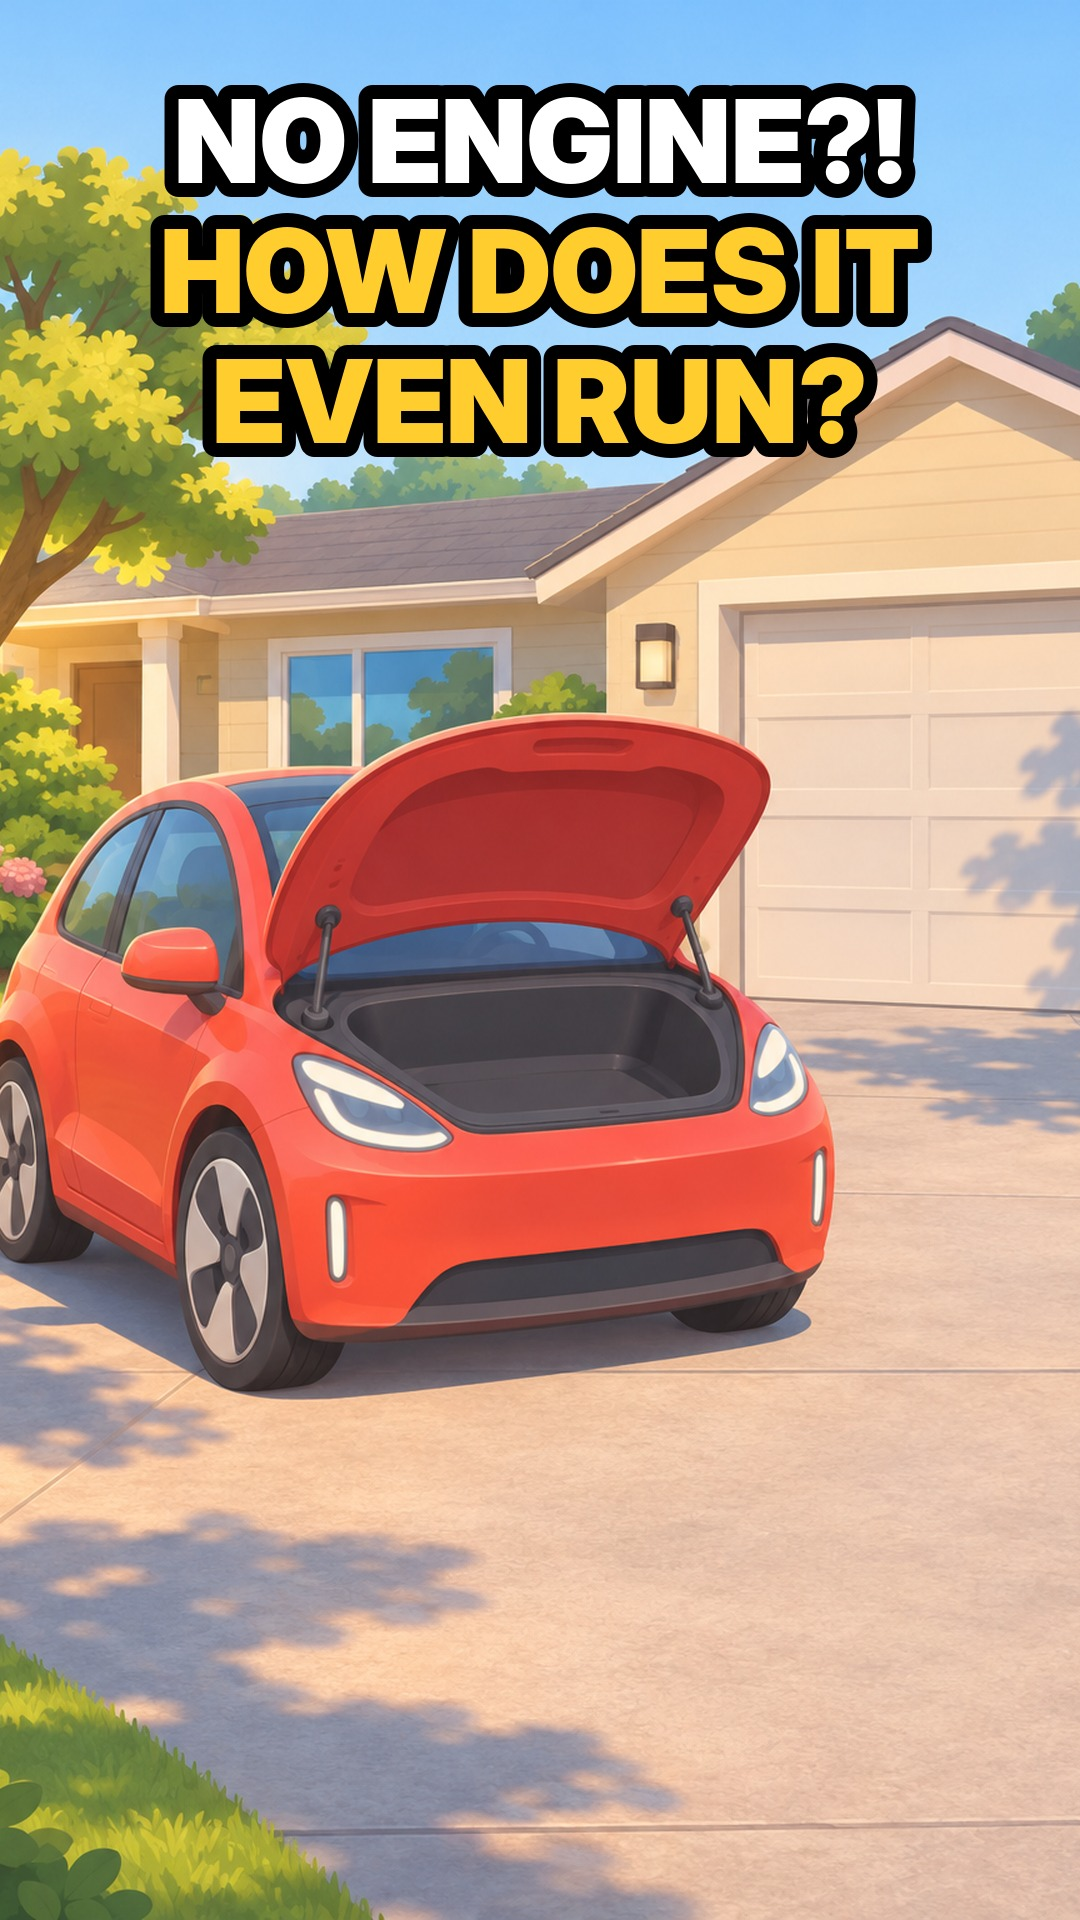
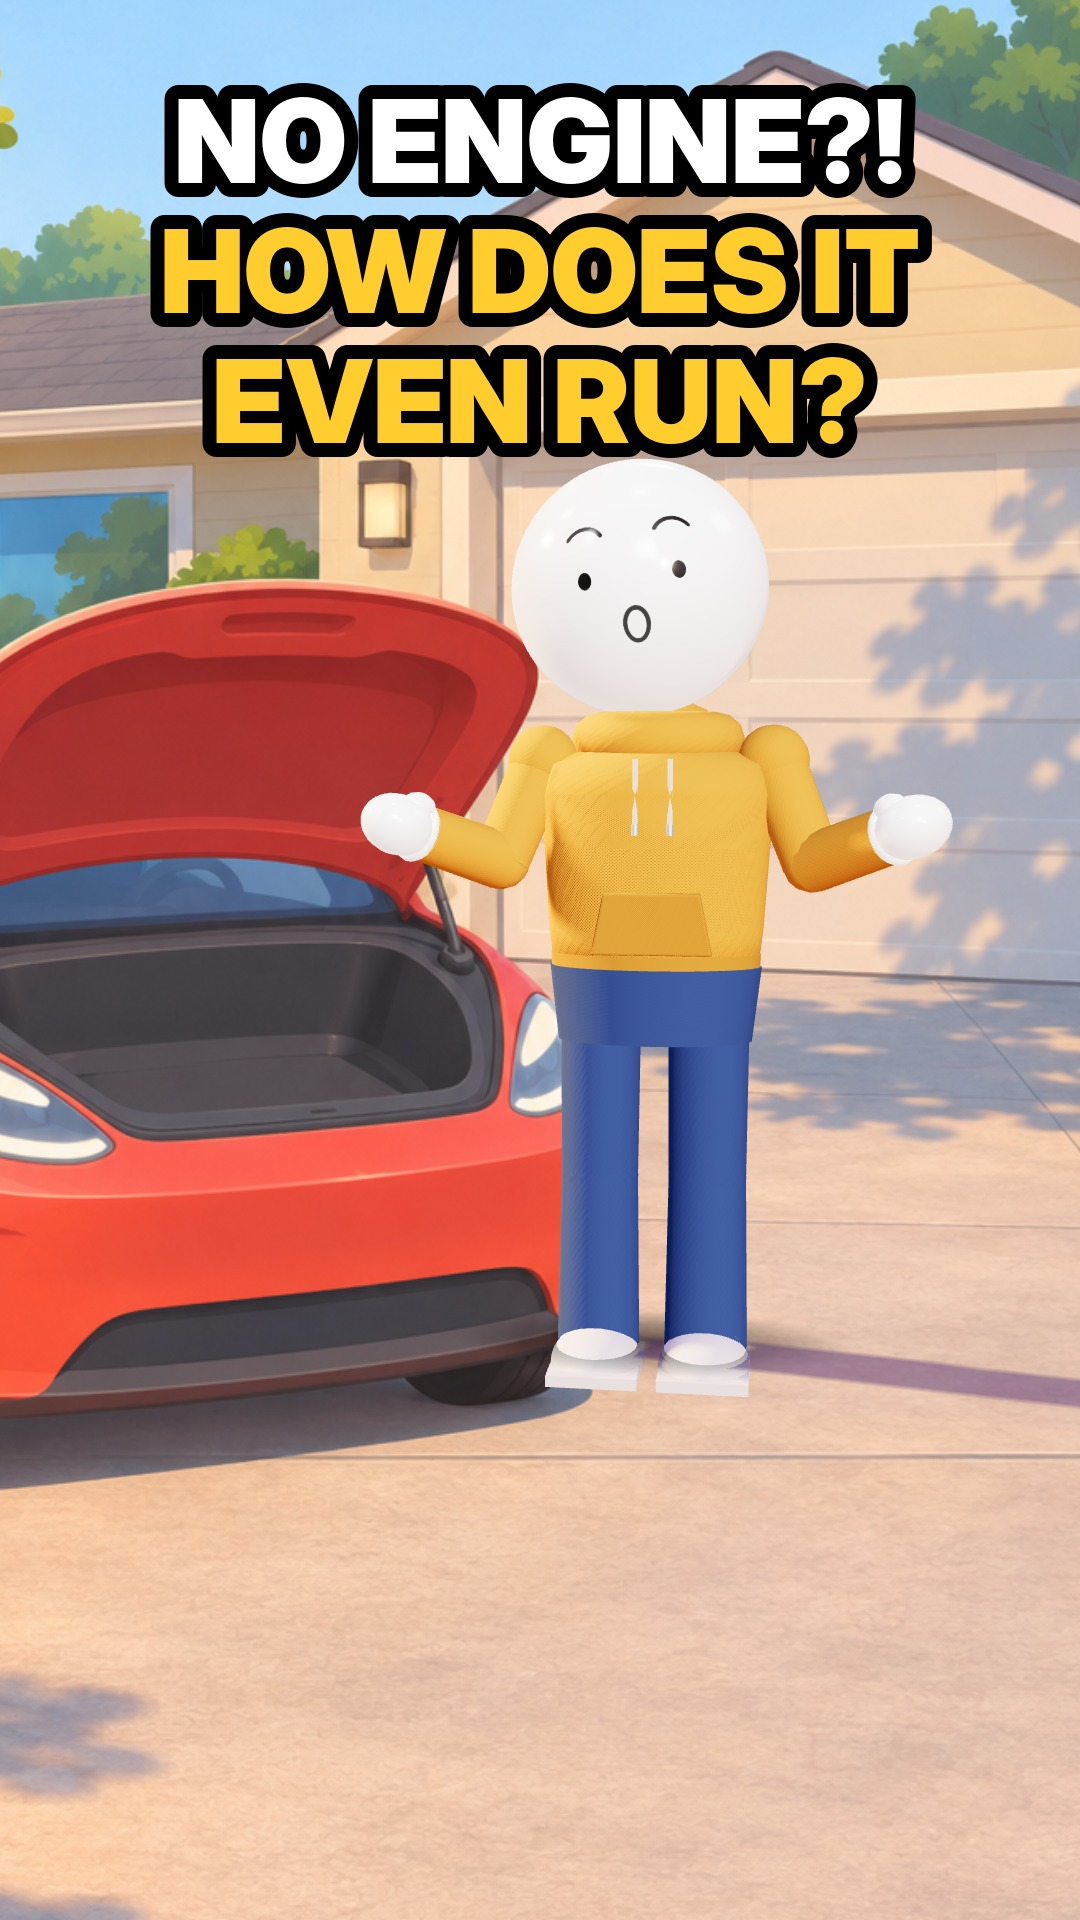
Covers always show the character: tools/cover.js + bible step 9
Claude-Session: https://claude.ai/code/session_01HD3jrJa4YnJamw2BSWNnj9

diff --git a/tools/cover.js b/tools/cover.js
@@ -1,0 +1,27 @@
+// Make a posting cover: a real frame from the video (cast included, no captions / follow button) + headline.
+// Usage: node tools/cover.js <slug> <seconds> "LINE 1|LINE 2|LINE 3"   ->  videos/<slug>/cover.jpg
+// Pick a moment where the character is on screen with a clear, expressive face (PLAYBOOK: covers always show the cast).
+const { fs, path, ROOT, vdir, spawnSync } = require('./lib');
+const { chromium } = require('playwright');
+const [slug, sec, text] = process.argv.slice(2);
+if (!slug || !sec || !text) { console.error('usage: node tools/cover.js <slug> <seconds> "LINE 1|LINE 2|LINE 3"'); process.exit(1); }
+const dir = vdir(slug), FPS = 30;
+(async () => {
+  const launch = { args: ['--use-gl=swiftshader', '--enable-webgl', '--ignore-gpu-blocklist', '--allow-file-access-from-files'] };
+  const sysChrome = ['/usr/bin/google-chrome', '/usr/bin/chromium', '/opt/pw-browsers/chromium'].find(p => fs.existsSync(p));
+  if (process.env.CHROME_PATH) launch.executablePath = process.env.CHROME_PATH; else if (sysChrome) launch.executablePath = sysChrome;
+  const browser = await chromium.launch(launch);
+  const page = await browser.newPage({ viewport: { width: 1080, height: 1920 }, deviceScaleFactor: 1 });
+  await page.goto('file://' + path.join(ROOT, 'engine', 'plate-stage.html') + '?v=' + encodeURIComponent(slug));
+  await page.waitForFunction('window.ready===true || window.loadError', null, { timeout: 60000 });
+  const le = await page.evaluate('window.loadError'); if (le) throw new Error(le);
+  await page.evaluate(`window.step(${Math.max(1, Math.round(+sec * FPS))},${1 / FPS})`);
+  await page.addStyleTag({ content: '#cap,#follow,#cursor,#flash{display:none!important}' });
+  const frame = path.join(dir, '.cover_frame.png');
+  await page.screenshot({ path: frame, type: 'png' });
+  await browser.close();
+  const r = spawnSync('python3', [path.join(ROOT, 'tools', 'cover_text.py'), frame, path.join(dir, 'cover.jpg'), text], { stdio: 'inherit' });
+  fs.rmSync(frame, { force: true });
+  if (r.status) process.exit(r.status);
+  console.log('cover ->', path.relative(ROOT, path.join(dir, 'cover.jpg')));
+})();

diff --git a/tools/cover_text.py b/tools/cover_text.py
@@ -1,0 +1,16 @@
+#!/usr/bin/env python3
+"""Draw the cover headline on a frame. Usage: cover_text.py in.png out.jpg "LINE 1|LINE 2|LINE 3"
+First line white, the rest gold, thick black outline, top quarter of the frame (clear of TikTok/Reels buttons)."""
+import sys
+from PIL import Image, ImageDraw, ImageFont
+src, dst, text = sys.argv[1], sys.argv[2], sys.argv[3]
+im = Image.open(src).convert('RGB'); W = im.width; d = ImageDraw.Draw(im)
+F = ImageFont.truetype('/usr/share/fonts/opentype/inter/InterDisplay-Black.otf', 116)
+for i, line in enumerate(text.split('|')):
+    size = 116
+    while d.textlength(line, font=F) > W - 80 and size > 60:
+        size -= 4; F = ImageFont.truetype('/usr/share/fonts/opentype/inter/InterDisplay-Black.otf', size)
+    w = d.textlength(line, font=F)
+    d.text(((W - w) / 2, 70 + i * 130), line, font=F, fill='white' if i == 0 else (255, 206, 46), stroke_width=14, stroke_fill='black')
+    F = ImageFont.truetype('/usr/share/fonts/opentype/inter/InterDisplay-Black.otf', 116)
+im.save(dst, quality=92)

diff --git a/docs/PLAYBOOK.md b/docs/PLAYBOOK.md
@@ -459,6 +459,14 @@ File names: `<place>_<angle>_<time>.png` and `prop_<thing>.png`, into `videos/<s
 
 ---
 
+## 6b. Posting kit (every video)
+- **Cover:** `node tools/cover.js <slug> <seconds> "LINE 1|LINE 2|LINE 3"` grabs a real frame (no captions, no follow
+  button) and adds the headline (line 1 white, the rest gold, thick outline, top quarter). **The cover always shows the
+  character** (Brian's rule): pick a moment with the cast on screen and a big, readable reaction (`surprised`, `worried`,
+  `shrug`), next to the subject (the empty hood, the dead bulb).
+- **Caption:** `post.md` with a TikTok/Reels caption (a curiosity line + the payoff in a few words + one Doug joke,
+  6–7 hashtags) and a YouTube Shorts title (≤ 100 chars, ends with #shorts).
+
 ## 7. Topic bank (any subject works; pick ones with a hidden mechanism or a twist)
 
 | Topic | Question | Shape | Who gets it wrong / who notices |

diff --git a/CLAUDE.md b/CLAUDE.md
@@ -42,6 +42,9 @@ Worked example: `videos/gas-vs-water/` (short form; `videos/why-cars-need-gas/` 
 7. **Preview** stills → Read them yourself → fix (feet planted, light matches painting, faces readable,
    caption band clear, clue visible before it's explained) → send Brian the preview.
 8. **Render** 30 fps with voice (and quiet `music.mp3` if present) → `final.mp4`. Commit (not huge mp4s), tell Brian the path.
+9. **Cover + caption**: `node tools/cover.js <slug> <seconds> "LINE 1|LINE 2|LINE 3"` → `cover.jpg`. **The cover always shows
+   the character** (a real frame with the cast and a clear, expressive face; no captions), headline in the top quarter.
+   Write `post.md` (TikTok/Reels caption + hashtags, YouTube Shorts title) and send both to Brian.
 
 ## Story rules (short version of PLAYBOOK §1)
 - Choose the question word from the payoff: Why (reason) / Who (identity) / When (moment) /

diff --git a/.claude/commands/make-video.md b/.claude/commands/make-video.md
@@ -26,3 +26,6 @@ Follow CLAUDE.md and `docs/PLAYBOOK.md` exactly. Example to copy: `videos/gas-vs
    camera moves and hard cuts per the shot plan).
 7. Render preview stills, Read them, fix problems, repeat until clean. Send me the preview.
 8. Render the final 30 fps video with voice. Commit and push. Tell me the file path.
+9. Cover + caption: `node tools/cover.js <slug> <seconds> "LINE 1|LINE 2|LINE 3"` on a frame where the character is on
+   screen with an expressive face (covers ALWAYS show the character). Write `videos/<slug>/post.md` (TikTok/Reels caption
+   + hashtags, YouTube Shorts title). Send me the cover and the caption.
